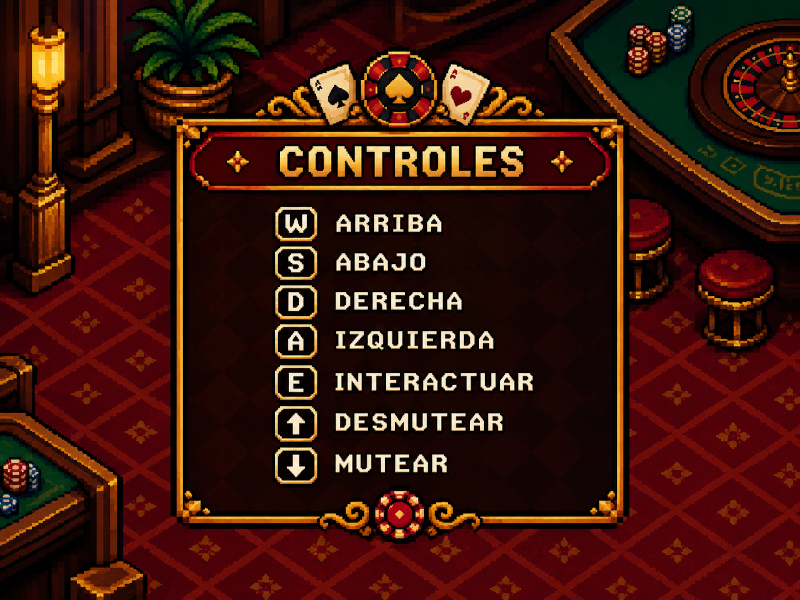
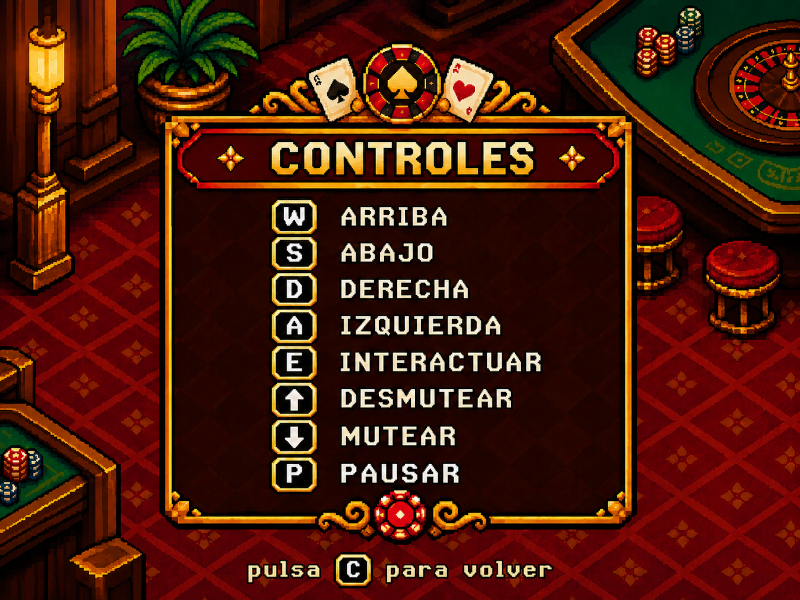
fix: se completó readme

diff --git a/README.md b/README.md
@@ -6,15 +6,36 @@
 
 - Nehuen Rodriguez <br>
 - Facundo Velazquez <br>
-- Uriel Garay <br>
-- Lucas Mogro <br>
 - Jean-Paul Bittencourt
 
-## Capturas
+## Tableros
 
-<!-- <section align = "center", id = "controles">
-    <img src="casino-poster-game.png" width="500px" />   
-</section> <br> <br> -->
+<section align = "center", id = "controles">
+    <img src="assets/casino/casino-tablero.png" width="500px" />   
+</section> <br> <br> 
+<p align = "center">Tablero Inicial</p>
+<br><br>
+<section align = "center", id = "controles">
+    <img src="assets/casino/escenario-vasos.png" width="500px" />   
+</section> <br> <br> 
+<p align = "center">Tablero Vasos</p>
+<section align = "center", id = "controles">
+<br><br>
+    <img src="assets/casino/tablero-dados.png" width="500px" />   
+</section> <br> <br> 
+<p align = "center">Tablero Dados</p>
+<br><br>
+<section align = "center", id = "controles">
+    <img src="assets/casino/salon-casino-batalla.png" width="500px" />   
+</section> <br> <br> 
+<p align = "center">Tablero Del Crupier</p>
+<br><br>
+<section align = "center", id = "controles">
+    <img src="assets/casino/casino-plaza.png" width="500px" />   
+</section> <br> <br> 
+<p align = "center">Tablero Del Parque</p>
+
+
 
 ## Reglas de Juego / Instrucciones
 
@@ -77,19 +98,15 @@ Juego 3: Sigue el vaso.
 
 ## Personajes
 
-<!-- <section align = "center", id = "controles">
-    <img src="assets/robert/jugador-robert-sur-chiquito.png" width="500px" />   
-</section> <br> <br>  -->
-
-## Objetivos pendientes
-
-- Creditos del juego
-- Historia del juego;
-        - Definir  lore
-        - Implementarlo en imagenes y musica
-- Implementación del patio;
-        - Musica
-        - Mecanica de recuperacion de dinero
+<section align = "center", id = "controles">
+    <img src="assets/readme/Robert.png" width="500px" />   
+</section> <br> <br> 
+<p align = "center">Robert - Protagonista</p>
+<br><br>
+<section align = "center", id = "controles">
+    <img src="assets/readme/Crupier.png" width="500px" />   
+</section> <br> <br> 
+<p align = "center">Crupier - Villano</p>
 
 
 ## Otros
